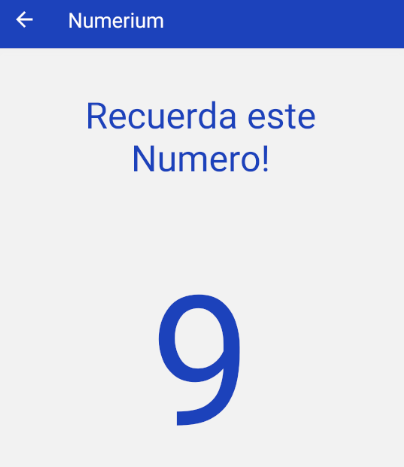
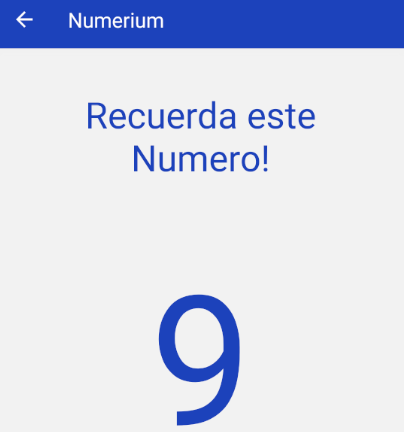
Realizo ultimas modificaciones esteticas

diff --git a/components/screens/Tutorial1.tsx b/components/screens/Tutorial1.tsx
@@ -6,6 +6,8 @@ import { RootStackParamList } from '../../types';
 import Colors from '../constants/Color';
 import { imagePathsTuto } from "../constants/imagesTuto";
 import Spacing from '../constants/Spacing';
+import FontSize from '../constants/FontSize';
+import Fonts from '../constants/Fonts';
 
 type Props = NativeStackScreenProps<RootStackParamList, "Tutorial1">;
 const Tutorial1Screen: React.FC<Props> = ({ navigation: { navigate } }: Props) => {
@@ -15,7 +17,7 @@ const Tutorial1Screen: React.FC<Props> = ({ navigation: { navigate } }: Props) =
                     {
                         backgroundColor: '#fff',
                         image: <Image source={imagePathsTuto[0]}
-                        style={{width: 350, height: 400}}/>,
+                        style={{width: 300, height: 350}}/>,
                         title: "Muestra del patrón de números",
                         subtitle: 'Primero vas a tener unos segundos para memorizar la secuencia de números',
                     },
@@ -36,7 +38,7 @@ const Tutorial1Screen: React.FC<Props> = ({ navigation: { navigate } }: Props) =
                     {
                         backgroundColor: '#fff',
                         image: <Image source={imagePathsTuto[3]}
-                        style={{width: 300, height: 400}} />,
+                        style={{width: 270, height: 380}} />,
                         title: 'Resultados',
                         subtitle: "Finalmente podrás ver cuál era la respuesta correcta. Si no lograste memorizar, no pasa nada. Intentá las veces que quieras!!",
                     },
@@ -50,7 +52,8 @@ const Tutorial1Screen: React.FC<Props> = ({ navigation: { navigate } }: Props) =
                 flatlistProps 
                 transitionAnimationDuration={200}
                 containerStyles={{marginTop: -100}}
-                titleStyles={{marginTop: -50}}
+                titleStyles={{marginTop: -50, fontSize: FontSize.xLarge, color: Colors.primary, fontFamily: Fonts["poppins-bold"], textAlign: "center"}}
+                subTitleStyles={{fontSize: FontSize.large, color: Colors.primary, fontFamily: Fonts["poppins-bold"], textAlign: "center"}}
             />
     );
 };
